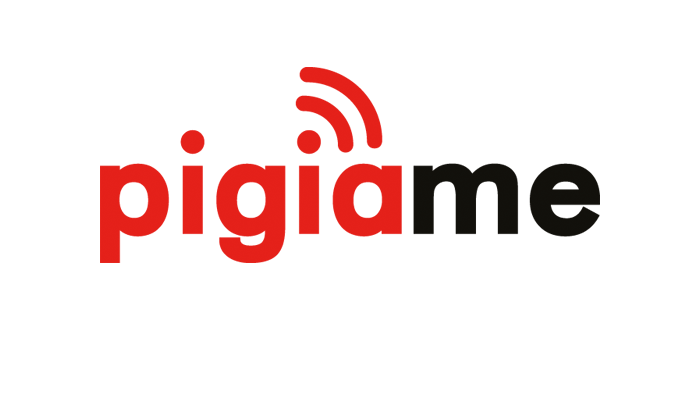
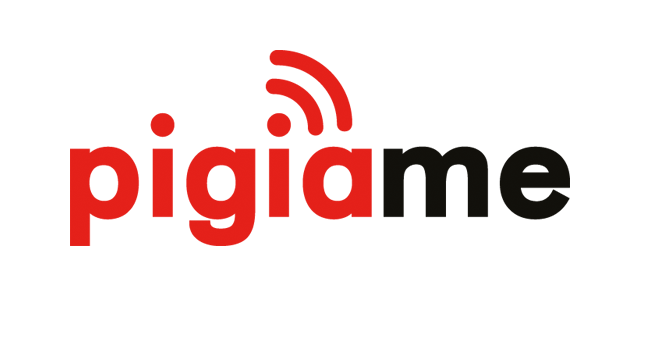
reduce vendor image size

Changed region(s): [[0.0927, 0.1232, 0.8964, 0.7087], [0.5255, 0.2465, 0.5564, 0.2773]]

diff --git a/src/components/home/Vendors.js b/src/components/home/Vendors.js
@@ -17,14 +17,14 @@ function Vendors(props) {
 const titleStyle = {
     textAlign:"center",
     margin:"100px auto 50px auto",
+    padding:"5px",
     color:"#403F4C"
 }
 
 const vendorImgStyle = {
-    height:"90px",
-    width:"25%",
-    minWidth:"150px",
-    maxWidth:"200px"
+    height:"80px",
+    width:"30%",
+    maxWidth:"150px"
 }
 
 Vendors.propTypes = {

diff --git a/src/App.js b/src/App.js
@@ -13,6 +13,7 @@ function App() {
            <Route exact path="/" component={Landing} />
            <Route path="/search" component={SearchPage} />
         </Router>
+        <Footer/>
     </div>
   );
 }
